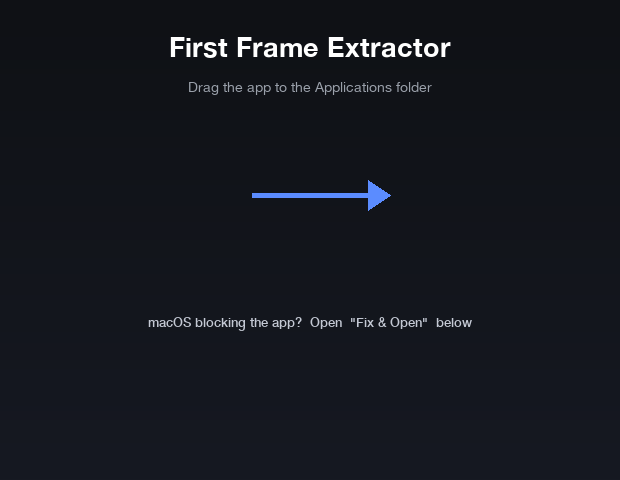
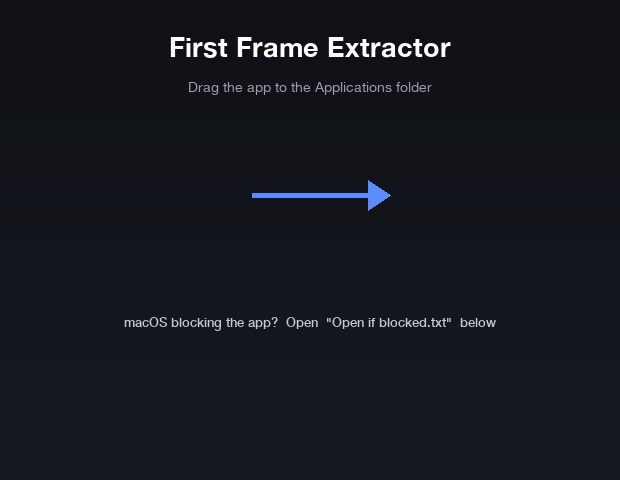
macOS: replace unlock script with copy-paste Terminal instructions
The .command helper was itself quarantined and blocked by Gatekeeper on
macOS Sequoia (chicken-and-egg), and Sequoia removed the right-click bypass.
Ship a plain-text 'Open if blocked.txt' in the DMG (not executable, so it is
not blocked) with the xattr command, and document the command in the README.

Changed region(s): [[0.1839, 0.6562, 0.7968, 0.6875]]

diff --git a/scripts/make-background.py b/scripts/make-background.py
@@ -10,7 +10,7 @@ Il TIFF combinato è ciò che build-dmg.sh passa a create-dmg: Finder sceglie la
 rappresentazione giusta e lo sfondo resta nitido anche sui display Retina.
 
 Il layout è pensato per NON sovrapporsi alle etichette che Finder disegna sotto
-le icone (app, Applications, "Fix & Open.command"). Le coordinate delle icone
+le icone (app, Applications, "Open if blocked.txt"). Le coordinate delle icone
 sono definite in build-dmg.sh e devono restare coerenti con quelle qui sotto.
 """
 
@@ -66,8 +66,8 @@ def render(scale: int) -> Image.Image:
     hh = 15 * s  # semi-altezza punta
     d.polygon([(x1, ay - hh), (x1 + 22 * s, ay), (x1, ay + hh)], fill="#5b8cff")
 
-    # Hint for the unlock script, above its icon (y=392).
-    text(W / 2, 322, 'macOS blocking the app?  Open  "Fix & Open"  below',
+    # Hint pointing to the instructions file, above its icon (y=392).
+    text(W / 2, 322, 'macOS blocking the app?  Open  "Open if blocked.txt"  below',
          font(10, 13 * s), "#c4c9d4")
 
     return img

diff --git a/README.md b/README.md
@@ -13,14 +13,25 @@ static `ffmpeg` binary. Nothing to install.
 Grab the latest build from the **[Releases](../../releases)** page:
 
 - **macOS** — `FirstFrameExtractor-macos.dmg` → open the `.dmg` and **drag the app into
-  your Applications folder**. If macOS blocks the app on first launch (it is unsigned),
-  double-click **`Fix & Open.command`** in the same disk window: it removes the
-  quarantine flag and opens the app.
+  your Applications folder**. Because the app is unsigned, macOS (Gatekeeper) will block
+  it on first launch with *"Apple could not verify … is free of malware"*. To fix it once:
+
+  ```bash
+  xattr -dr com.apple.quarantine "/Applications/First Frame Extractor.app"
+  ```
+
+  Open the **Terminal** app (Cmd-Space → type `Terminal`), paste the line above, press
+  Enter, then open the app normally. The same instructions ship inside the `.dmg` as
+  **`Open if blocked.txt`**.
+
+  *No Terminal?* Double-click the app, then go to **System Settings → Privacy & Security**,
+  scroll down and click **Open Anyway**.
 - **Windows** — `FirstFrameExtractor-windows.zip` → extract and run `FirstFrameExtractor.exe`.
   SmartScreen will warn you: choose **More info → Run anyway**.
 
-> ⚠ The binaries are **unsigned** (code signing requires paid certificates and is not
-> included), so security warnings on first launch are expected.
+> ⚠ The binaries are **unsigned** (removing the warnings entirely requires paid Apple
+> notarization / a code-signing certificate), so security prompts on first launch are
+> expected.
 
 ## Supported formats
 
